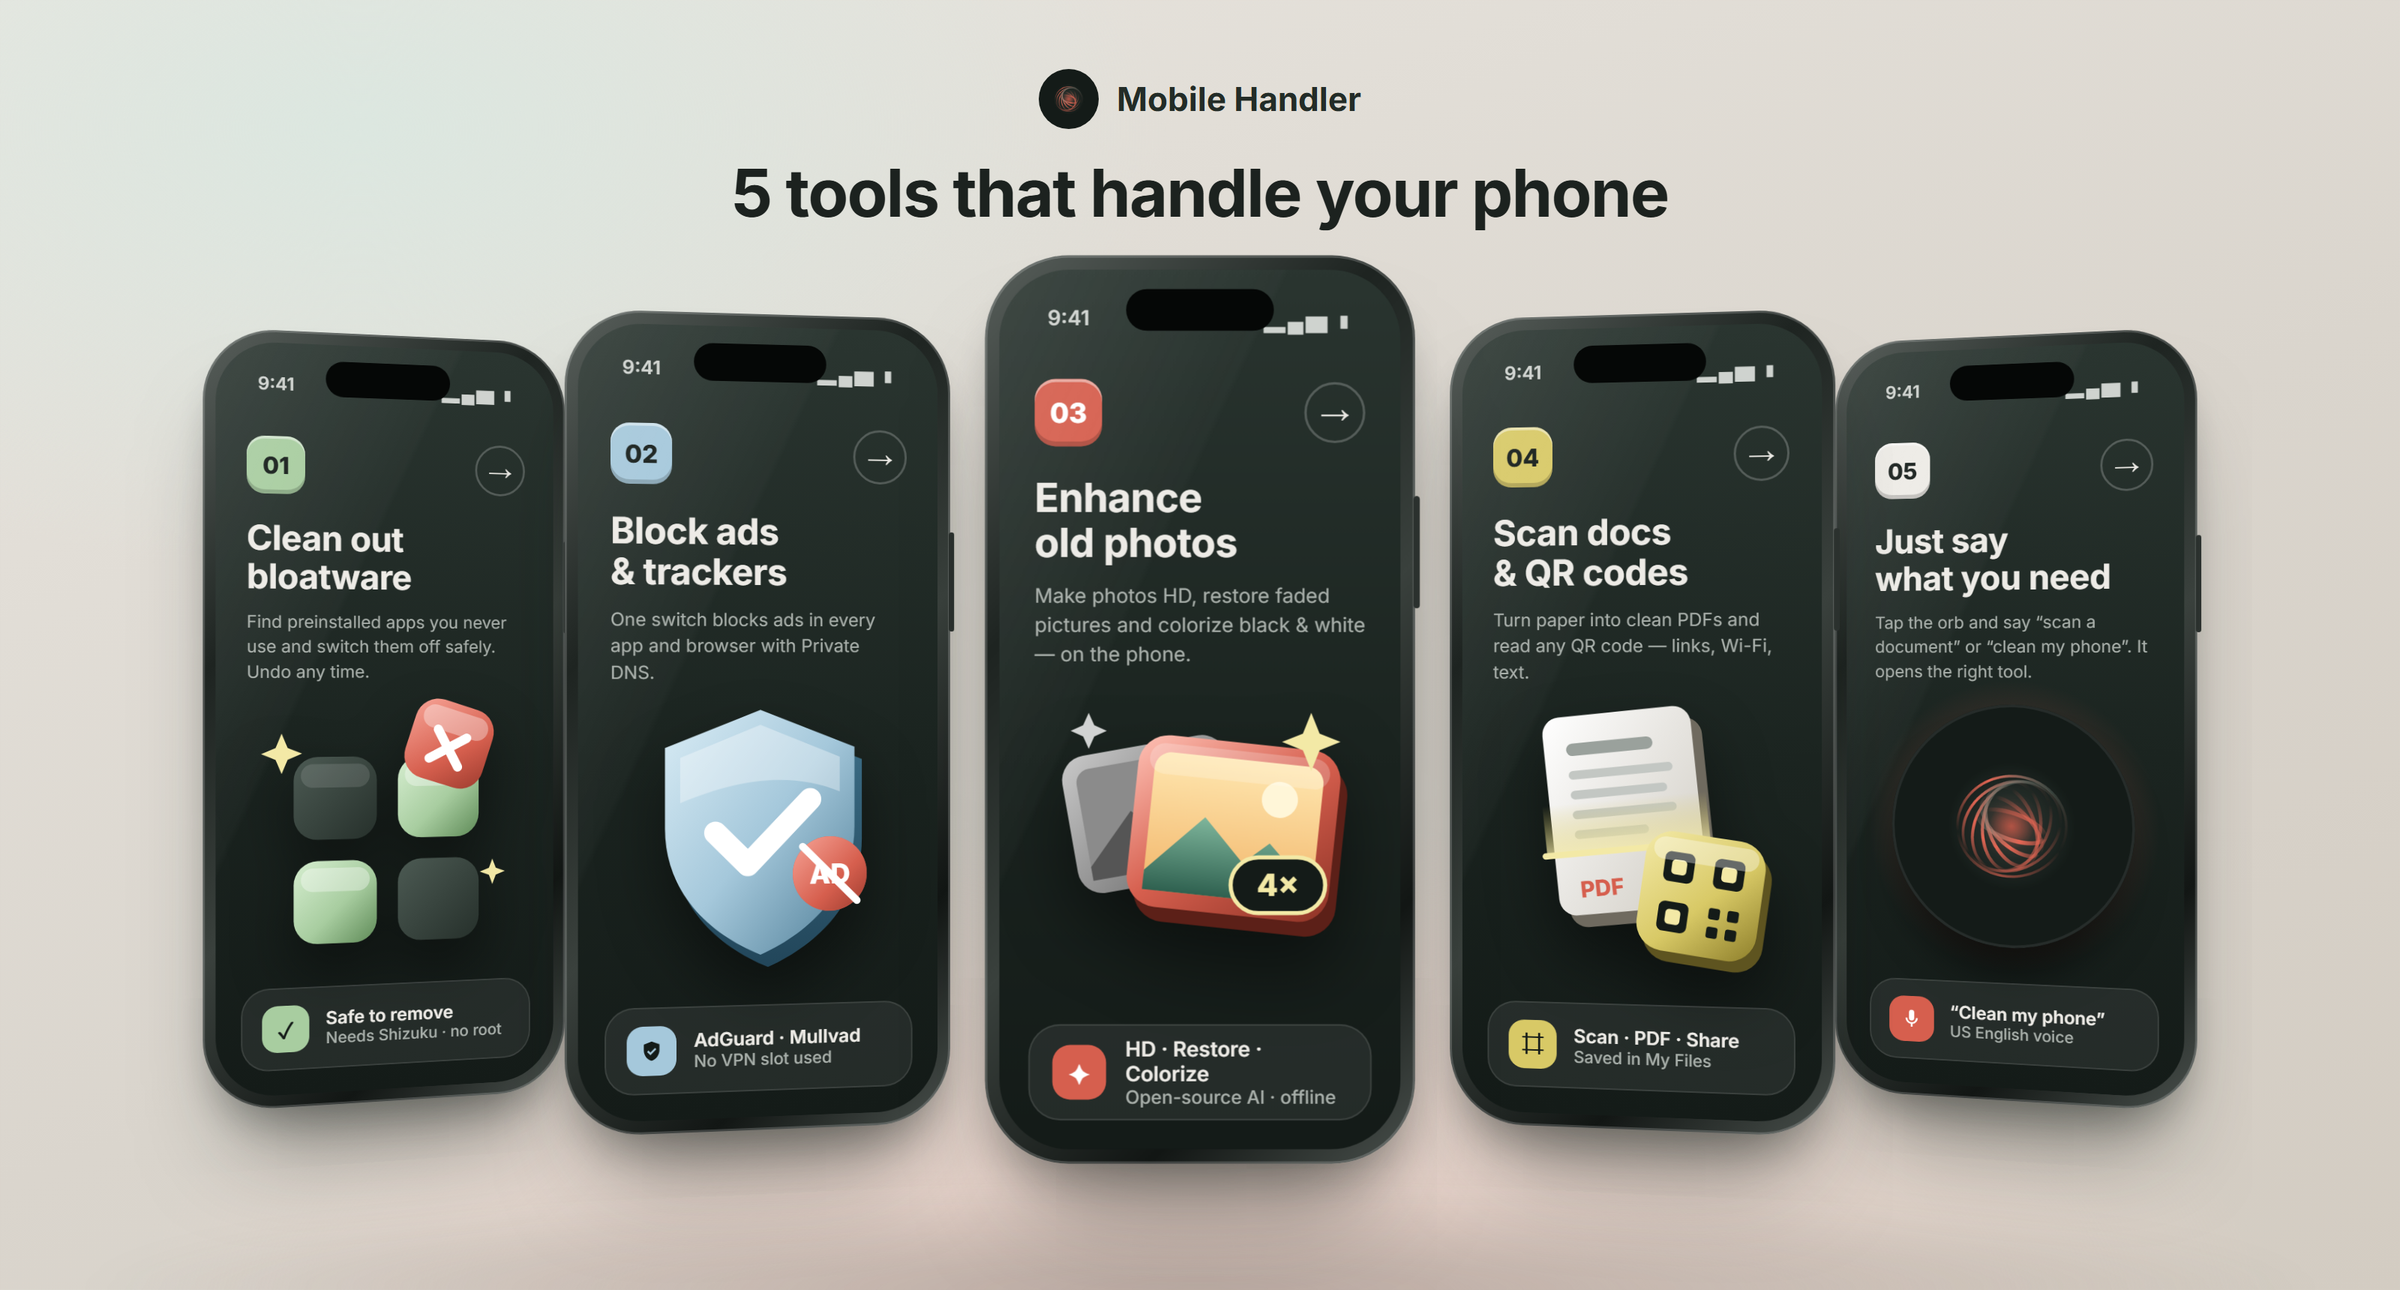
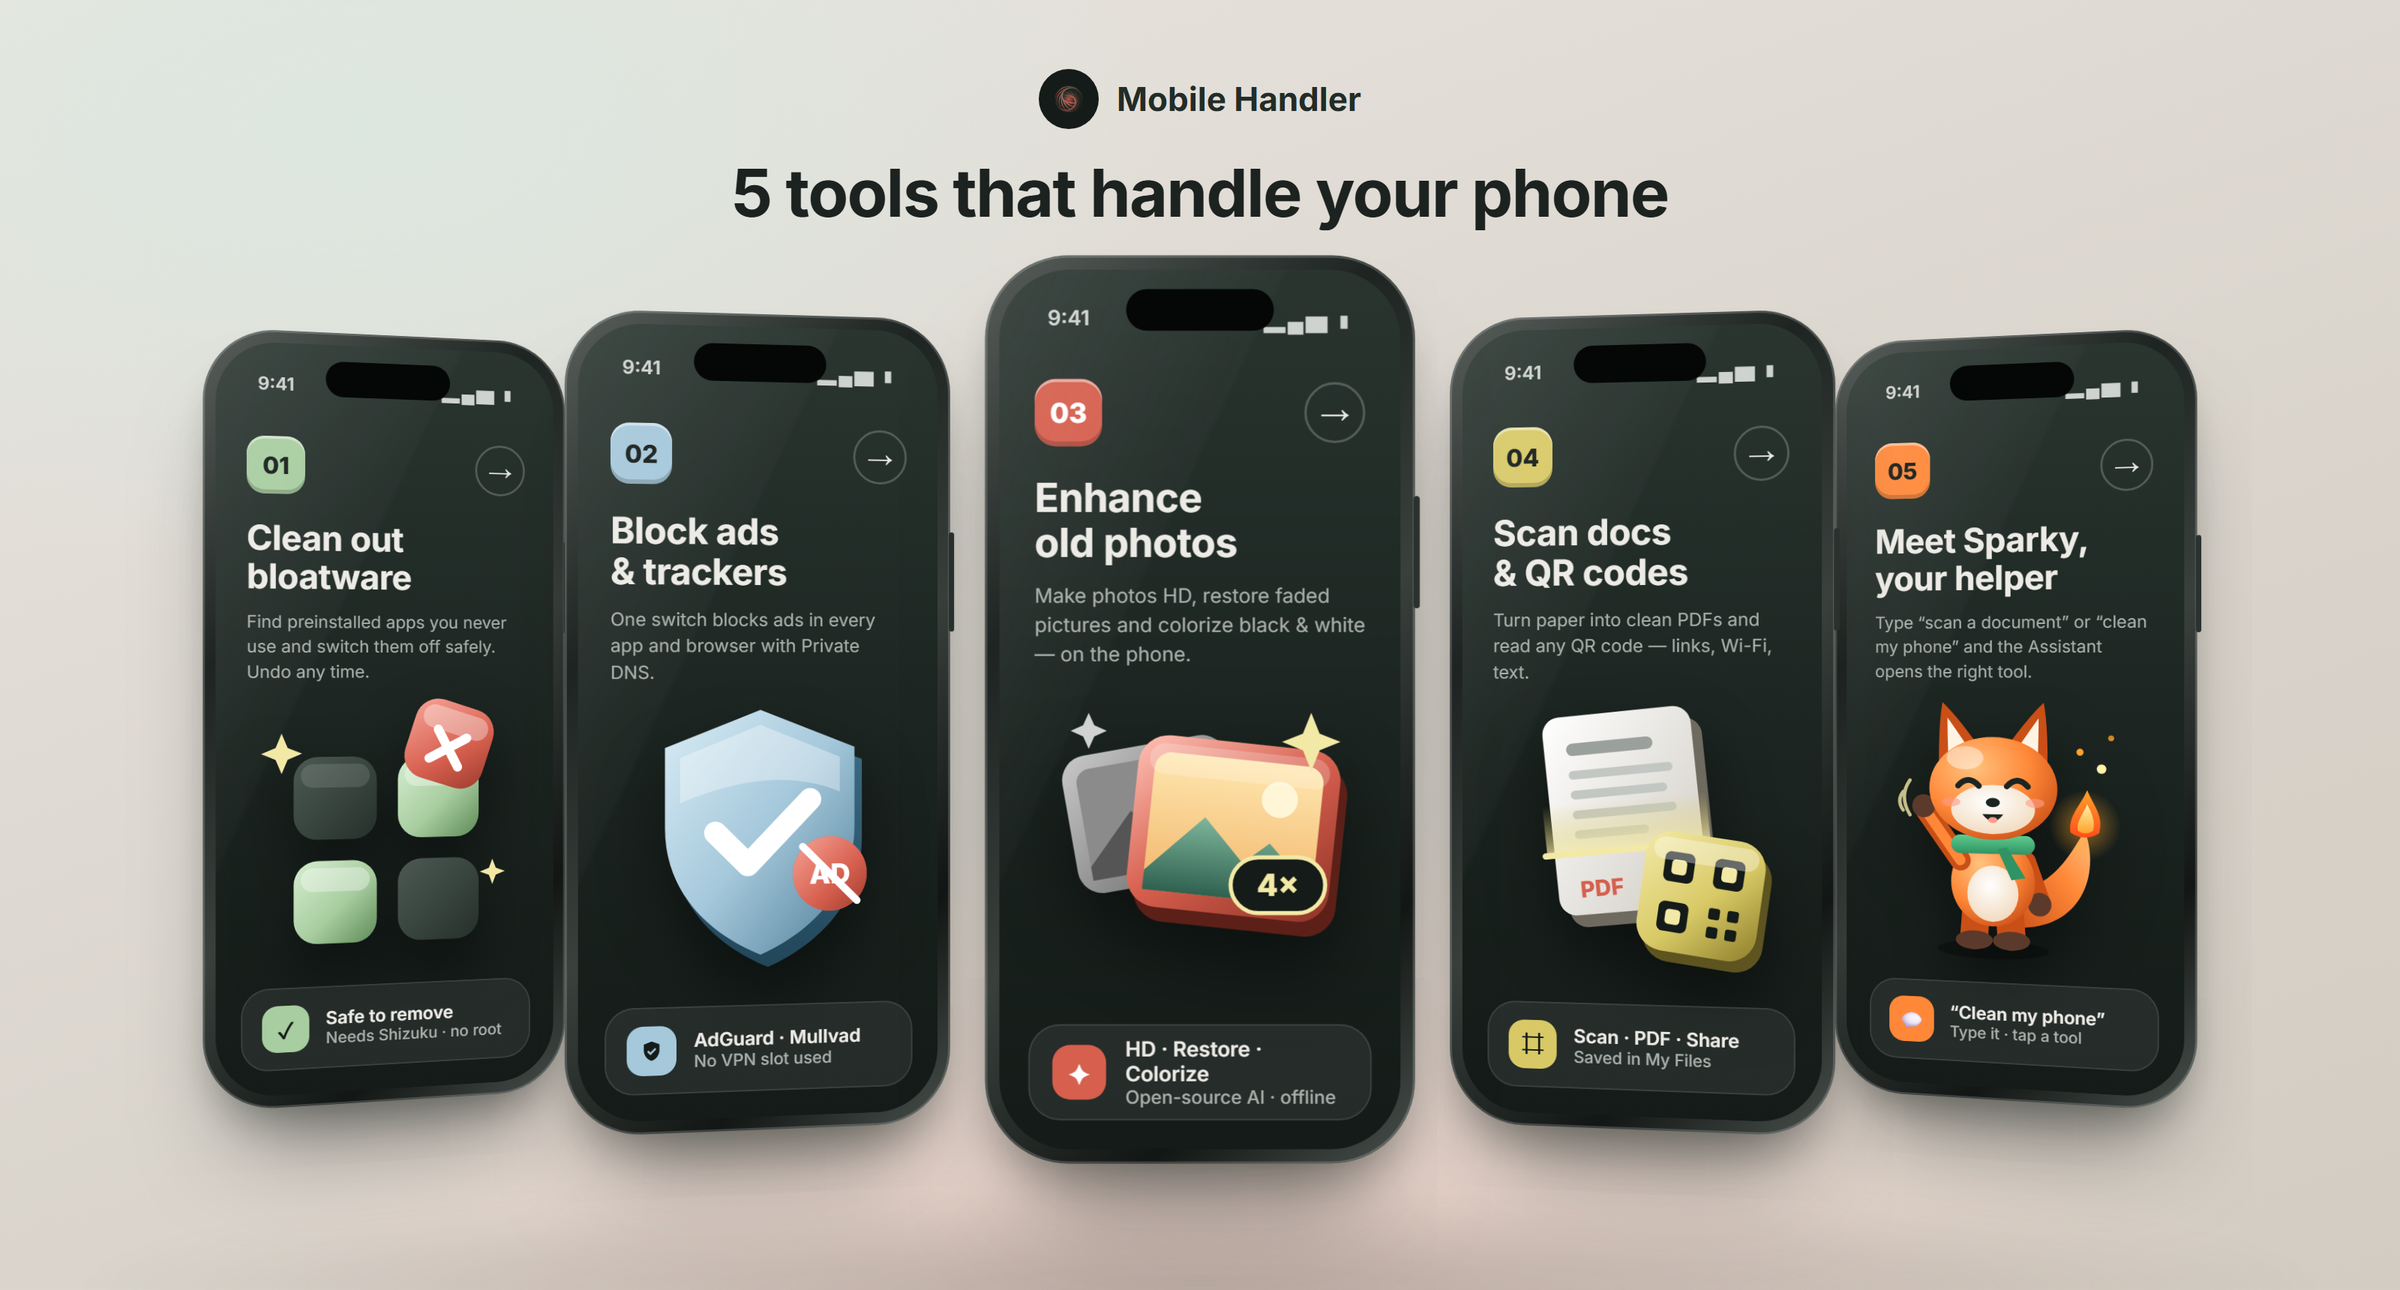
Design: phone 05 shows Sparky and the Assistant instead of voice

Changed region(s): [[0.7812, 0.5581, 0.9062, 0.7442], [0.7812, 0.3411, 0.875, 0.5271], [0.7812, 0.7752, 0.8438, 0.8062]]

diff --git a/index.html b/index.html
@@ -101,7 +101,7 @@
   </div>
 
   <div class="showcase">
-    <img src="design/mobile-handler-3d.webp" alt="Mobile Handler's five main tools shown on five phones: Phone Cleaner, Ad Blocker, Photo Enhancer, Scanners and Assistant" width="1600" height="860" loading="lazy">
+    <img src="design/mobile-handler-3d.webp" alt="Mobile Handler's five main tools shown on five phones: Phone Cleaner, Ad Blocker, Photo Enhancer, Scanners and Sparky the Assistant mascot" width="1600" height="860" loading="lazy">
   </div>
 
   <section id="features">
